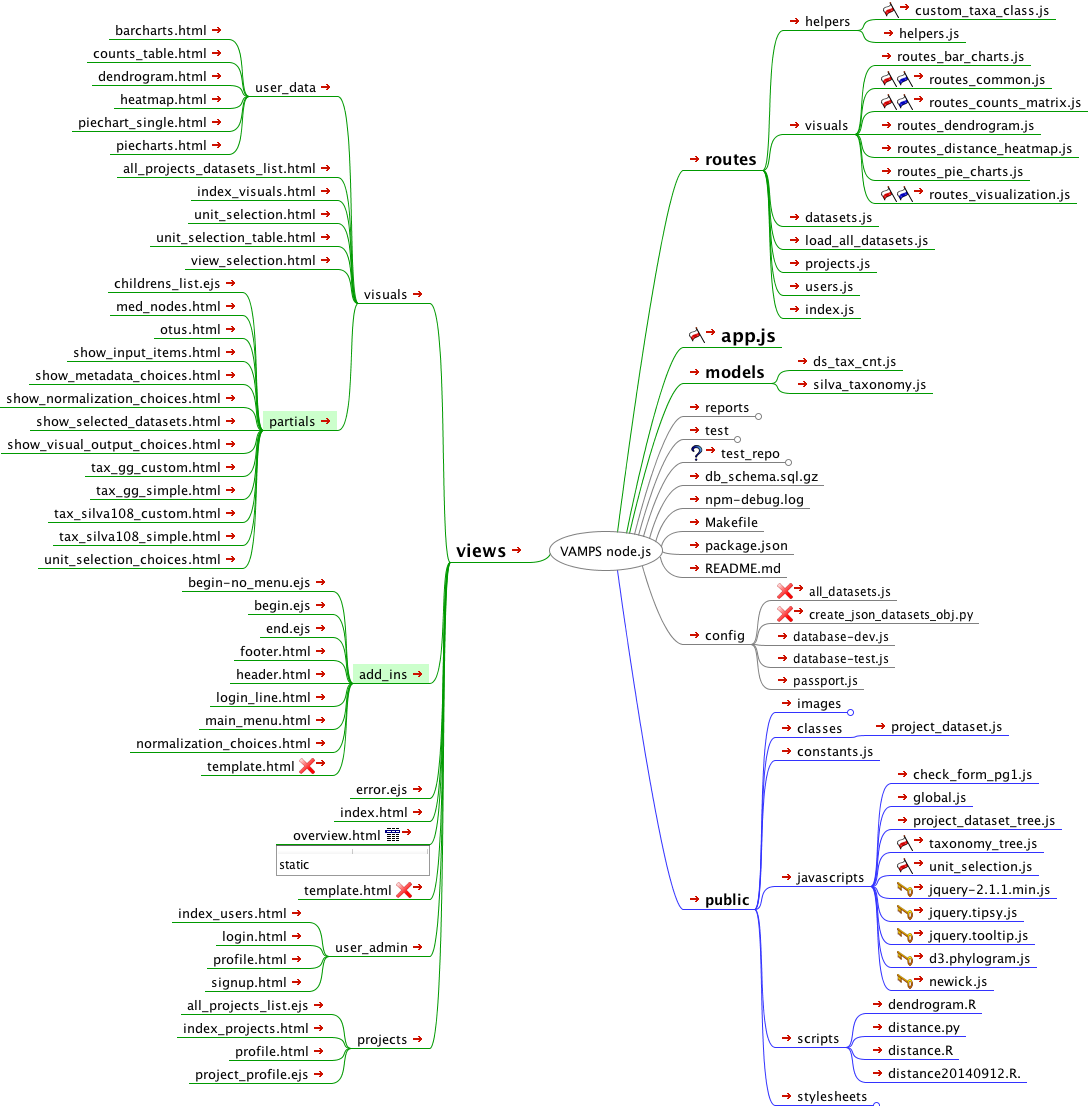
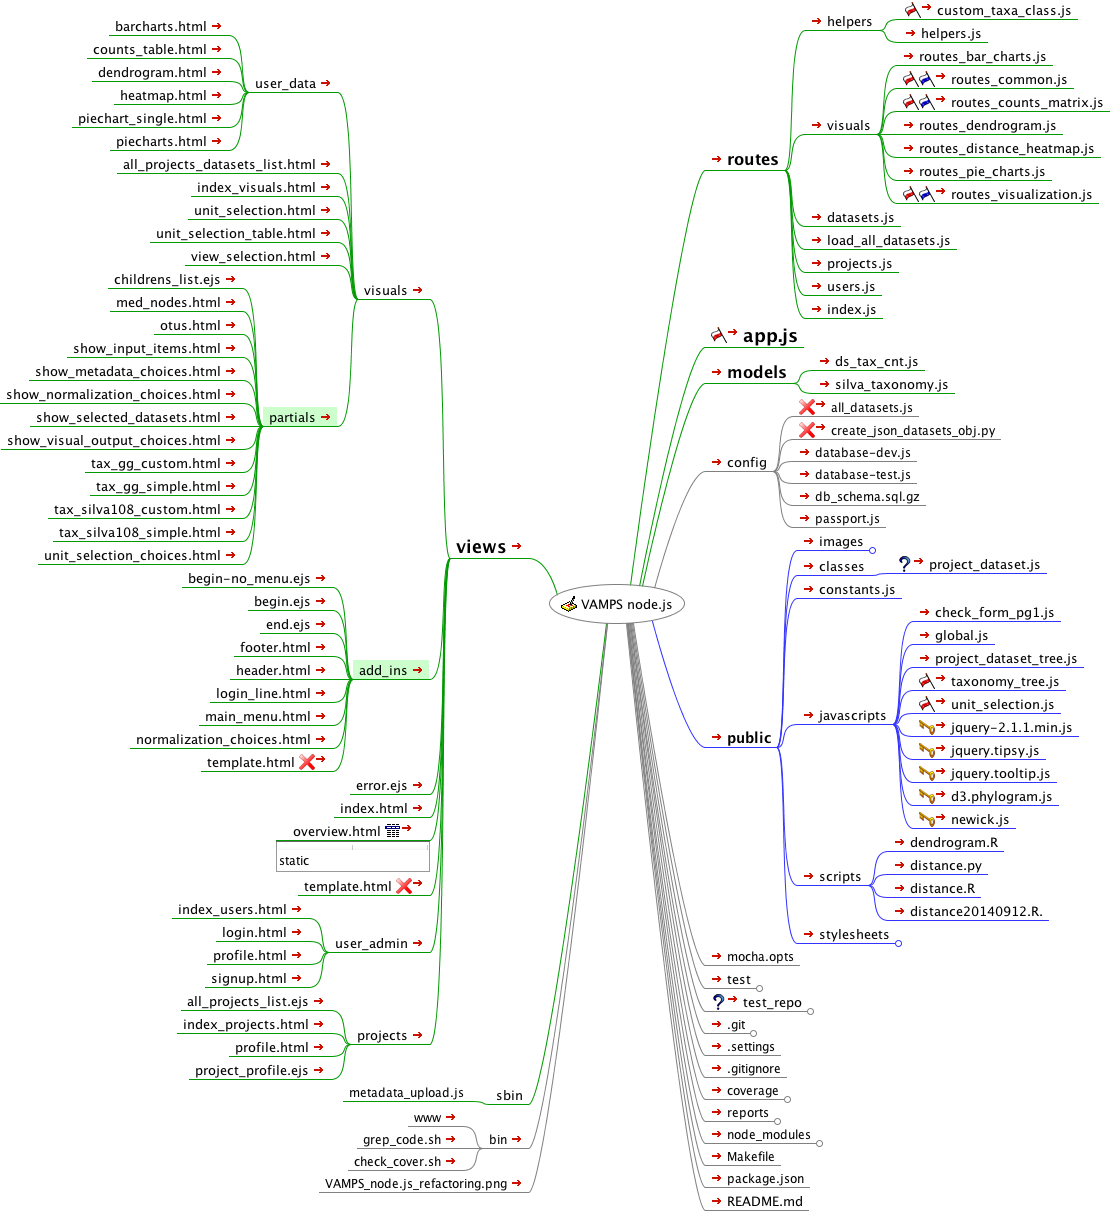
restructure

diff --git a/sbin/metadata_upload.js b/sbin/metadata_upload.js
@@ -1,0 +1,7 @@
+// metadata_upload.js
+
+/**
+* Read csv into an object
+* get field/column names
+* required_metadata_info
+*/

diff --git a/README.md b/README.md
@@ -4,13 +4,11 @@ Visualization and Analysis of Microbial Population Structures
 -----------------
 
 To run this program first install Node.js (http://nodejs.org/)
-look in package.json to see required modules
+look in package.json to see required modules or run
+ * (sudo) npm -g install
 
 To update modules:
   * npm update
-
-Start this project:
-  * npm start
 
 To refresh anew via git
   * git fetch --all
@@ -19,30 +17,48 @@ To refresh anew via git
 If this error occurs it is likely
 the server is already running
   * events.js:72
-        * throw er; // Unhandled 'error' event
+    * throw er; // Unhandled 'error' event
+
+--- START ---
+
+Start this project:
+  * npm start
+
+Install nodemon to keep from restarting server after changes
+  * sudo npm install nodemon -g
+Then run as: 
+  * nodemon bin/www
+
+--- TESTS ---
 
 Test using mocha
   * make test
   OR
   * mocha
 
-MySQL db schema is included in root dir as: db_schema.sql
-
-Install nodemon to keep from restarting server after changes
-sudo npm install nodemon -g
-Then run as: nodemon bin/www
-
 To check code quality:
-plato -r -x public/javascripts/jquery-2.1.1.min.js -d reports public app.js views routes models config 
+  * plato -r -x public/javascripts/jquery-2.1.1.min.js -d reports public app.js views routes models config 
 
 Then see vamps-node.js/reports/index.html in a browser.
+
+--- DB ---
+
+MySQL db schema is included in root dir as: db_schema.sql
 
 Applying new database schema from vamps2 (on vampsdev)
   I will record all alterations to the database here:
 
-  
-TODO TODO
+--- Dir structure ---
+routes - server side logic
+views - html/ejs
+models - data retrieval (db for now, hdf5 in the future) 
+public - client side, cached with an expiration time
+sbin - additional scripts
+
+
+--- TODO ---
   * Testing!
+  * Refactoring!
   * DONE:   projects/:id via REST
   * DONE:   user login and auth
   * add 960.gs grid to pages
